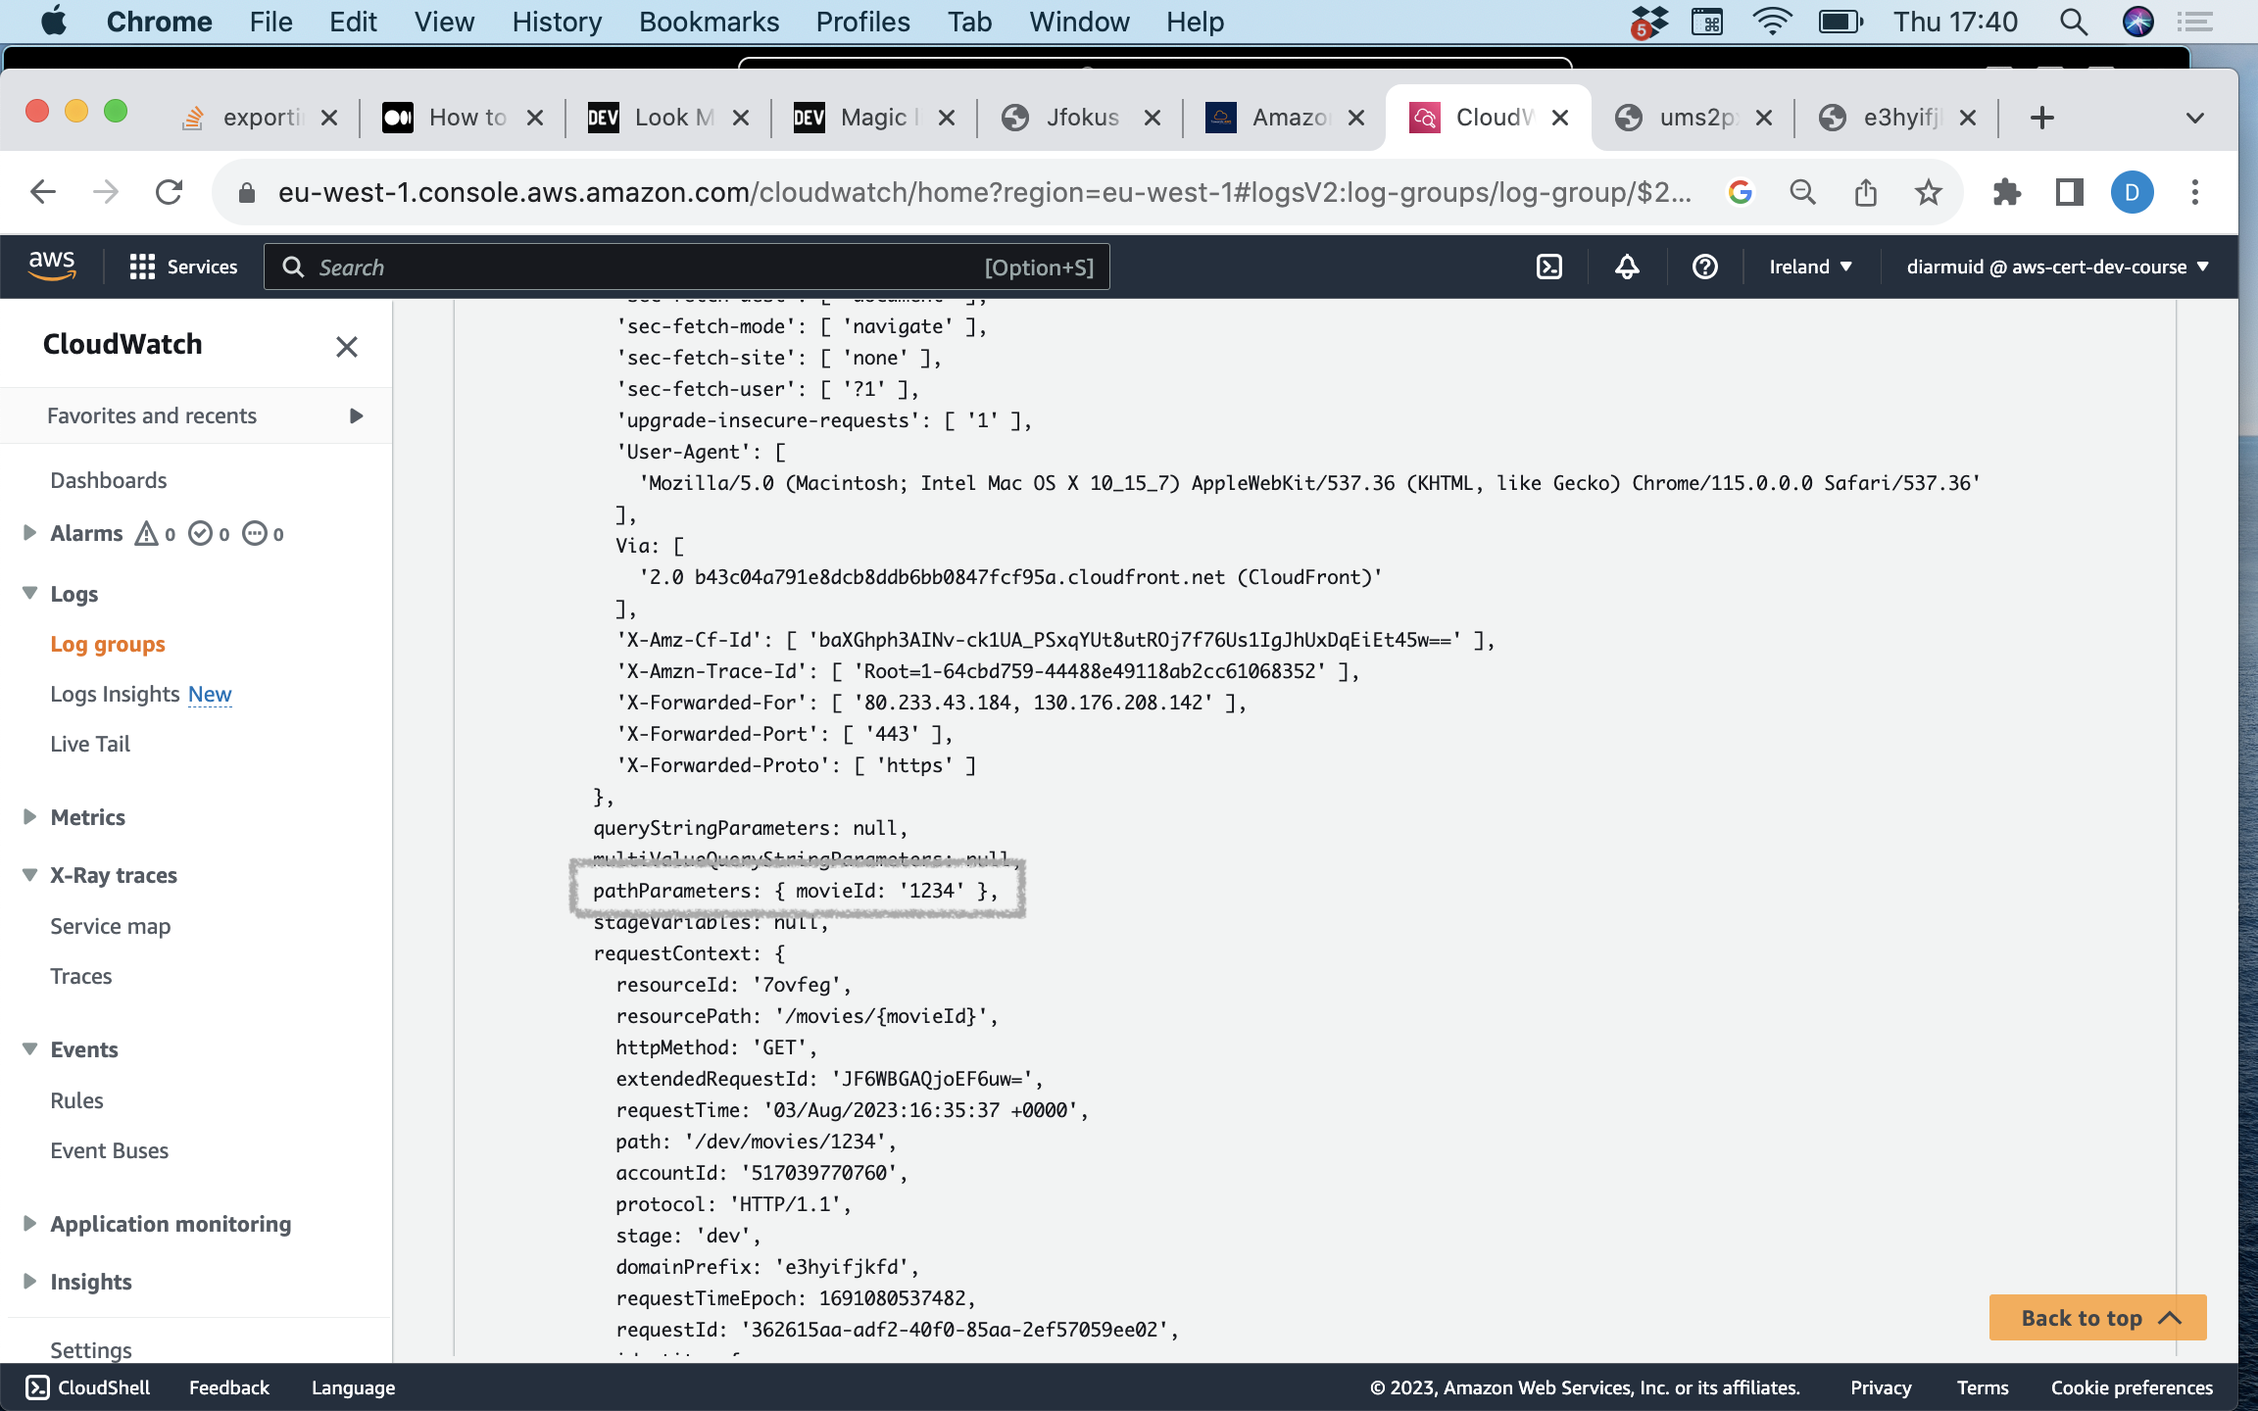
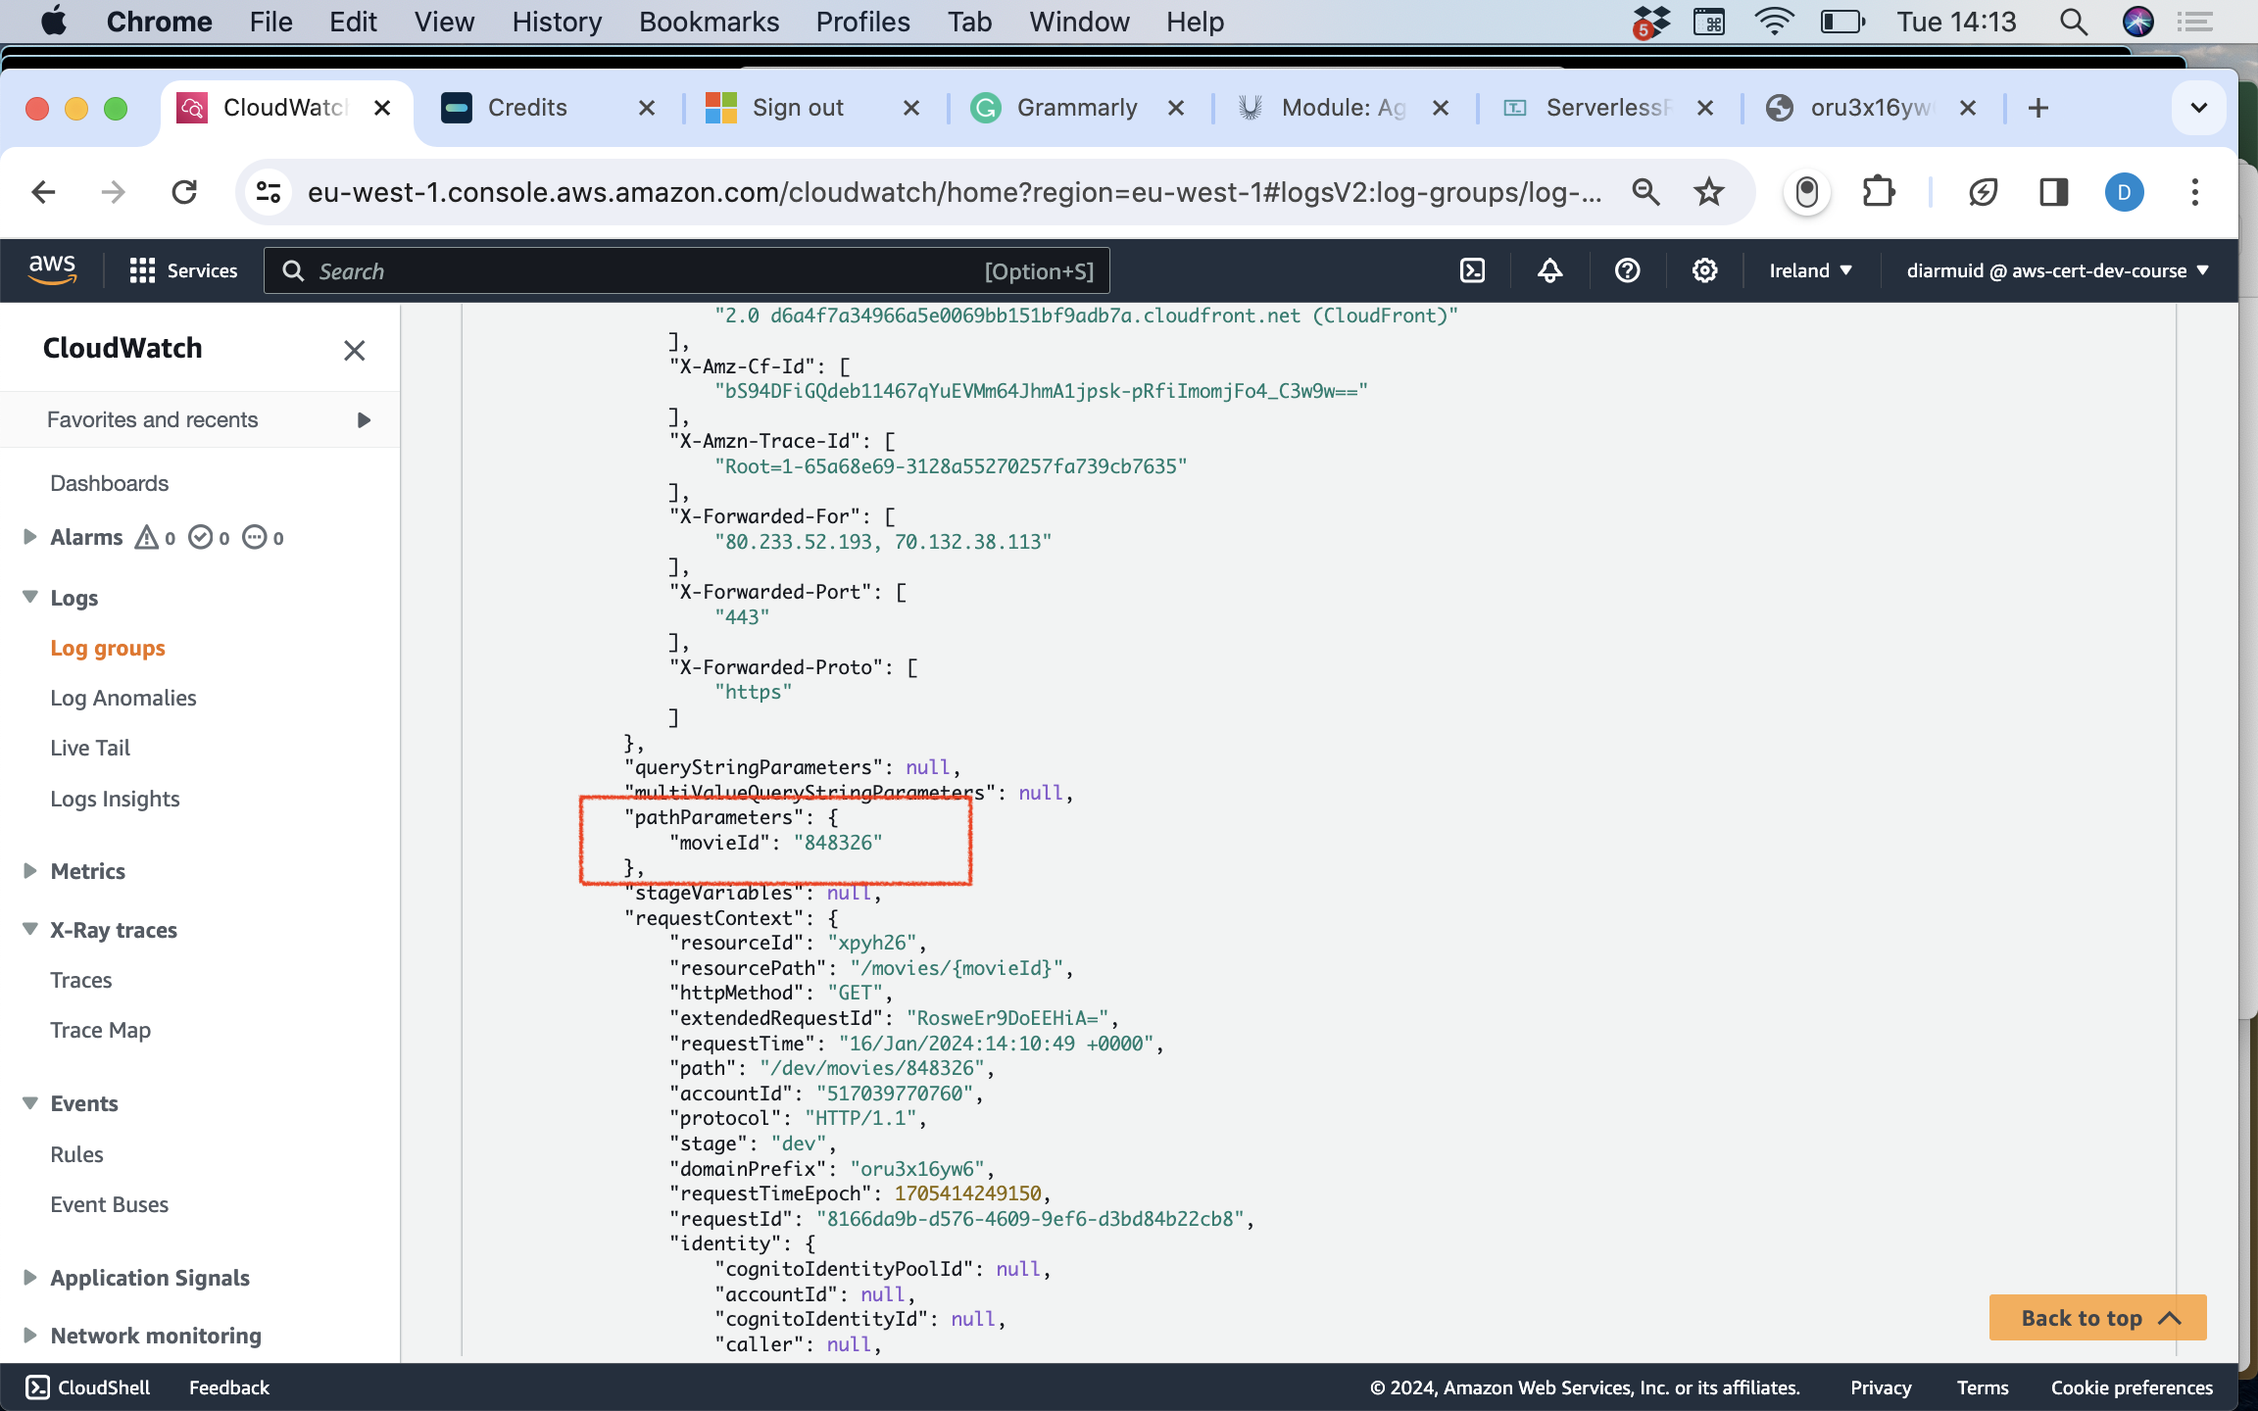
Updates to Serverless REST lab - WIP

diff --git a/topic04/book-1/02.ExpandAPI.md b/topic04/book-1/02.ExpandAPI.md
@@ -30,9 +30,10 @@ In `rest-api-stack.ts`:
     moviesTable.grantReadWriteData(newMovieFn)
 ~~~
 
-+ Extend the REST API:
++ Extend the Gateway's movies endpoint to accommodate a POST:
 ~~~ts
     moviesEndpoint.addMethod(
+      "Get",
     //   ... as before
     );
     // NEW
@@ -104,20 +105,26 @@ function createDDbDocClient() {
 }
 
 ~~~
-To write/put a new item into a DynamoDB table we send a PutItem command to the DynamoDB engine. Update the stack (cdk deploy) and test the code with Postman, using the JSON below as the body of the POST request:
+To write/put a new item into a DynamoDB table we send a PutItem command to the DynamoDB service. 
+
+Update the stack (cdk deploy) and test the code with Postman, using the JSON below as the body of the POST request:
 ~~~json
-  {
-    "movieId":614479,
-    "genre_ids":[12,15,23],
-    "original_language":"en",
-    "overview":"To put their demons to rest once and for all, Josh Lambert and a college-aged Dalton Lambert must go deeper into The Further than ever before, facing their family's dark past and a host of new and more horrifying terrors that lurk behind the red door.",
-    "popularity":2514.588,
-    "release_date":"2023-07-05",
-    "title":"Insidious: The Red Door",
-    "video":false,
-    "vote_average":6.663,
-    "vote_count":478
- }
+ {
+    "adult": false,
+    "backdrop_path": "/9jPoyxjiEYPylUIMI3Ntixf8z3M.jpg",
+    "genre_ids": [ 16, 12, 35, 10751 ],
+    "id": 123456,
+    "original_language": "en",
+    "original_title": "Chicken Run: Dawn of the Nugget",
+    "overview": "A band of fearless chickens flock together to save poultry-kind from an unsettling new threat: a nearby farm that's cooking up something suspicious.",
+    "popularity": 494.214,
+    "poster_path": "/exNtEY8QUuQh9e23wSQjkPxKIU3.jpg",
+    "release_date": "2023-12-08",
+    "title": "Chicken Run: Dawn of the Nugget",
+    "video": false,
+    "vote_average": 7.4,
+    "vote_count": 325
+  }
 ~~~
 The request in Postman should look as follows:
 
@@ -129,7 +136,7 @@ Check the item was added to the table:
 
 ### Validating JSON Schema at Runtime
 
-There is a significant weakness in the above solution; we are not validating the structure of the JSON in the POST request body, and the schemaless nature of Dynamodb means anything is acceptable. Types and interfaces defined in TypeScript work well at compile-time but disappear during runtime, Also Typescript cannot help when the data's source is external, i.e. provided by a user or another application. We need extra tooling. The typescript-json-schema CLI creates JSON Schema documents from TypeScript definitions. The JSON follows the [Draft 7 JSON Schema][json], so many applications understand the schemas. Add typescript-json-schema to the project as a dev dependency:
+There is a significant weakness in the above solution; we need to validate the structure of the JSON in the POST request body as the schemaless nature of Dynamodb means anything is acceptable. Types and interfaces defined in TypeScript work well at compile-time but disappear during runtime. Also, Typescript cannot help when the data's source is external, i.e. provided by a user or another application. We need extra tooling. The typescript-json-schema CLI creates JSON Schema documents from TypeScript definitions. The JSON follows the [Draft 7 JSON Schema][json], so many applications understand the schemas. Add typescript-json-schema to the project as a dev dependency:
 ~~~bash
 £ npm i -D typescript-json-schema
 ~~~
@@ -140,7 +147,7 @@ Add a new script to `package.json`
     "schema": "typescript-json-schema --noExtraProps --required --refs false -o ./shared/types.schema.json  \"./shared/types.d.ts\" \"*\""
   },
 ~~~
-The script generates JSON schema documents from our TS type/interface definitions (shared/types.d.ts). Run the script:
+The script generates JSON schema documents from our TS type definitions (shared/types.d.ts). Run the script:
 ~~~bash
 $ npm run schema
 ~~~
@@ -182,11 +189,11 @@ export const handler: APIGatewayProxyHandlerV2 = async (event, context) => {
     }
     // Unchanged
     const commandOutput = await ddbDocClient.send(
-       // asbefore
+       // as before
     );
     // as before .....
 ~~~
-By default, the Typescript compiler does not allow a JSON file as an inport. Make a change to the bottom of `tsconfig.json` to allow these imports,  as follows:
+By default, the Typescript compiler does not allow a JSON file as an import. Make a change to the bottom of `tsconfig.json` to allow these imports,:
 ~~~json
  "exclude": [
   ... as before ...
@@ -196,16 +203,16 @@ By default, the Typescript compiler does not allow a JSON file as an inport. Mak
   ],
 }
 ~~~
-The critical line in `lambdas/addMovie.ts` above is:
+The critical line in the above code is:
 
 >const isValidBodyParams = ajv.compile(schema.definitions["Movie"] || {});
 
 isValidBodyParams is a dynamically generated function to validate a JS object against the Movie schema produced by typescript-json-schema.
 
-Update the stack (cdk deploy) and try sending the following invalid movie to the add movie endpoint:
+Update the stack (cdk deploy) and try sending the following invalid movie to the add movies endpoint:
 ~~~json
   {
-    "movieId":614479,
+    "id":654321,
     "genre_ids":[12,15,23],
     "original_language":"en",
     "title":"Insidious: The Red Door"
@@ -214,7 +221,7 @@ Update the stack (cdk deploy) and try sending the following invalid movie to the
 
 ![][posterror]
 
-In `.gitignore` add a new line to prevent the generated schemas being added to the repo:
+In `.gitignore` add a new line to prevent the generated schemas from being added to the repo:
 ~~~
 *.schema.json
 ~~~
@@ -227,7 +234,7 @@ $ git push origin master
 
 ## Exercise.
 
-__You are required__ to develop a DELETE /movies/{movieID} endpoint that deletet a movie from the movies table. The DynamoDBDocumentClient command to delete an item is DeleteCommand:
+__You are required__ to develop a DELETE /movies/{movieID} endpoint that deletet a film from the movies table. The DynamoDBDocumentClient command to delete an item is DeleteCommand:
 ~~~ts
 DeleteCommand({
     TableName: string,

diff --git a/topic04/book-1/03.DynamoDBQuery.md b/topic04/book-1/03.DynamoDBQuery.md
@@ -1,29 +1,29 @@
-## Endpoint with Query String parameters.
+## Query String parameters.
 
 We want to include a movie cast resource/endpoint in the web API. It should support the following queries:
-+ All cast members for a movie.
-+ Information on a specific actor in a film.
-+ Information on a particular character/role in a movie.
++ Get all cast members for a movie.
++ Get information on a specific actor in a film.
++ Get information on a particular character/role in a movie.
 
-All the above requests will be routed to the same resource, as shown below:
+All the above requests should be routed to the same resource, as shown below:
 
 ![][castapi]
 
 The new resource expects a query string parameter, which can take the following forms:
 + ?movieId=id - Get all cast members for a movie.
-+ ?movieId=id&actorName=name - Get the cast member played by an actor in a specific movie.
-+ ?movieId=id&roleName=role - Get the cast member for a particular role in a specific movie.
++ ?movieId=id&actorName=name - Get the casting information about a specific actor in a movie.
++ ?movieId=id&roleName=role - Get the casting information about a specific actor in a movie.
 
 We will store movie casts in a separate table with the following attributes:
-+ movieId (partition key)
-+ actorName
-+ roleName (A character role in the film) 
-+ roleDescription
++ movieId (partition key).
++ actorName.
++ roleName (A character/role in the film).
++ roleDescription.
 
 The table will have a composite primary key comprised of movieId and actorName (sort key). The table needs a local secondary index to support queries based on role/character name. This index's sort key will be 'roleName'.
 
 ### Reset.
-After testing the delete movie feature in the previous section, we must repopulate the database. The simplest way to achieve this is to recreate the infrastructure. Type the following commands to achieve this:
+After testing the delete movie feature in the previous section, we should repopulate the database. The simplest way to achieve this is to recreate the infrastructure. Type the following commands to achieve this:
 ~~~bash
 $ cdk destroy
 $ cdk deploy
@@ -39,7 +39,7 @@ In 'shared/types.d.ts' add new type declarations at the bottom:
     roleName: string;
     roleDescription: string;
   };
-  // Used to validate the query string og HTTP Get requests
+  // Used to validate the query string of HTTP Get requests.
   export type MovieCastMemberQueryParams = {
     movieId: string;
     actorName?: string;
@@ -57,25 +57,25 @@ import {Movie, MovieCast} from '../shared/types'
 ~~~ts
 export const movieCasts: MovieCast[] = [
   {
-    movieId: 1234,
+    movieId: 848326,
     actorName: "Joe Bloggs",
     roleName: "Male Character 1",
     roleDescription: "description of character 1",
   },
   {
-    movieId: 1234,
+    movieId: 848326,
     actorName: "Alice Broggs",
     roleName: "Female Character 1",
     roleDescription: "description of character 2",
   },
   {
-    movieId: 1234,
+    movieId: 848326,
     actorName: "Joe Cloggs",
     roleName: "Male Character 2",
     roleDescription: "description of character 3",
   },
   {
-    movieId: 2345,
+    movieId: 572802,
     actorName: "Joe Bloggs",
     roleName: "Male Character 1",
     roleDescription: "description of character 3",
@@ -166,9 +166,10 @@ import { movies, movieCasts } from "../seed/movies";
 + Grant the new lambda permission to read from the new table:
 ~~~ts
 // Permissions ......
-    movieCastsTable.grantReadData(getMovieCastMembersFn);
+
+movieCastsTable.grantReadData(getMovieCastMembersFn);
 ~~~
-+ Add a new endpoint of the web API:
++ Add a new endpoint to the web API so that it extends from the existing movies endpoint:
 ~~~ts
 const movieCastEndpoint = moviesEndpoint.addResource("cast");
 movieCastEndpoint.addMethod(
@@ -222,7 +223,6 @@ export const handler: APIGatewayProxyHandlerV2 = async (event, context) => {
       };
     }
     
-    // const parameters = event.queryStringParameters;
     const movieId = parseInt(queryParams.movieId);
     let commandInput: QueryCommandInput = {
       TableName: process.env.TABLE_NAME,
@@ -256,12 +256,11 @@ export const handler: APIGatewayProxyHandlerV2 = async (event, context) => {
       };
     }
     
-    // const ddbDocClient = createDocumentClient();
     const commandOutput = await ddbDocClient.send(
       new QueryCommand(commandInput)
       );
       
-      return {
+return {
         statusCode: 200,
         headers: {
           "content-type": "application/json",
@@ -302,16 +301,16 @@ We use the AJV package to validate the structure of the query string parameter o
 
 To get __a set of items__ from a table, we send a QueryCommand to the DynamoDB document client. The command expects:
 + The table name.
-+ (KeyConditionExpression) An expression describing how the DynamoDB engine selects the items to return. The expression is based on the table's key attributes, i.e., partition and sort keys.
-+ (IndexName) The index to use when it's not the base index, i.e. a local secondary index.
-+ (ExpressionAttributeValues) The bindings for the variables in the KeyConditionExpression.
++ KeyConditionExpression: An expression describing how the DynamoDB engine selects the items to return. The expression is based on the table's key attributes, i.e., partition and sort keys.
++ IndexName: The index to use when it's not the base index, i.e. a local secondary index.
++ ExpressionAttributeValues: The bindings for the variables in the KeyConditionExpression.
 
 Now type the following terminal commands:
 ~~~bash
 $ npm run schema
 £ cdk deploy
 ~~~
-Use the API URL provided in the terminal response to test the new resource in the browser:
+Use the API URL provided in the terminal response to test the new endpoint in the browser:
 
 + Get the actors whose name starts with Joe in movie 1234.
 

diff --git a/topic04/book-1/01.BasicREST.md b/topic04/book-1/01.BasicREST.md
@@ -1,6 +1,5 @@
 ## Basic REST API.
-
-In `lib/rest-api-stack.ts`:
+We want to provision the infrastructure shown in the previous section. In `lib/rest-api-stack.ts`:
 
 + Add an import at the top:
 ~~~ts
@@ -11,7 +10,7 @@ import * as apig from "aws-cdk-lib/aws-apigateway";
 ~~~ts
     // Permissions
     ..... as before ....
-    // REST API 
+    // REST API Gateway
     const api = new apig.RestApi(this, "RestAPI", {
       description: "demo api",
       deployOptions: {
@@ -43,8 +42,8 @@ Update the stack:
 ~~~bash
 $ cdk deploy
 ~~~
-The above code's effect is to add a REST web API with two resources, both configured with a Lambda Proxy integration. The two endpoints are:
-+ GET /movies - Gaet all movies.
+The above code's effect is adding a REST web API with two resources/endpoints, both configured with a Lambda Proxy integration. The two endpoints are:
++ GET /movies - Gaet all films.
 + GET /movies/:id - Get a specific movie.
 
 To confirm this, in the management console, go to API Gateway --> Select the RestAPI from the list:
@@ -59,7 +58,7 @@ To get the URL of a resource, select Stages (left panel) --> Expand the dev stag
 
 ![][apistage]
 
-The current lambda function behind the API's get-all-movies endpoint does not require modification; however, the get-a-specific-movie lamdba expects a movie id path parameter (as opposed to a query string parameter). In `lambdas/getMovieById.ts`:
+The code for the lambda function associated with the API's get-all-movies endpoint does not require modification; however, the get-a-specific-movie lamdba expects a movie id path parameter (as opposed to a query string parameter). In `lambdas/getMovieById.ts`:
 
 + Change the first import statement to the following:
 ~~~ts
@@ -70,15 +69,13 @@ import { APIGatewayProxyHandlerV2 } from "aws-lambda";
 export const handler: APIGatewayProxyHandlerV2 = async (event, context) => { // Note change
   try {
     console.log("Event: ", event);
-    // const parameters = event?.queryStringParameters;
-    // const movieId = parameters ? parseInt(parameters.movieId) : undefined;
     const parameters  = event?.pathParameters;
     const movieId = parameters?.movieId ? parseInt(parameters.movieId) : undefined;
 
     if (!movieId) {
       ... as before ...
 ~~~
-A cosmetic change is also recommended to `lambdas/getAllMovies.ts`. Change the first import and the handler's signature as shown below:
+One cosmetic change is recommended to `lambdas/getAllMovies.ts`. Change the first import and the handler's signature as shown below:
 ~~~ts
 import { APIGatewayProxyHandlerV2 } from "aws-lambda";  // CHANGED
 import { DynamoDBClient } from "@aws-sdk/client-dynamodb";
@@ -90,7 +87,7 @@ export const handler: APIGatewayProxyHandlerV2 = async (event, context) => { // 
   try {
     ... as before
 ~~~
-Update the stack (cdk deploy). The terminal response includes the root URL of the web API:
+Update the stack (cdk deploy). The terminal response includes the root URL of the API Gateway:
 
 >e.g. RestAPIStack.RESTAPIRootUrl = https://0go567dcib.execute-api.eu-west-1.amazonaws.com/dev/
 
